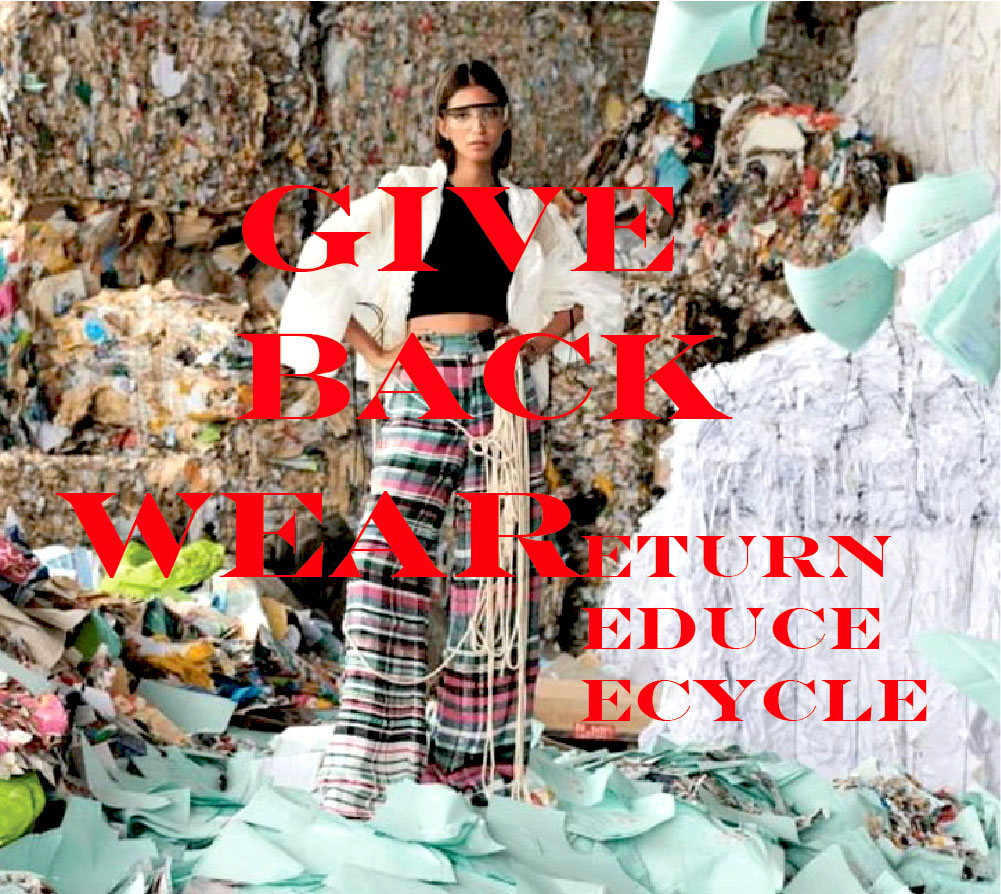
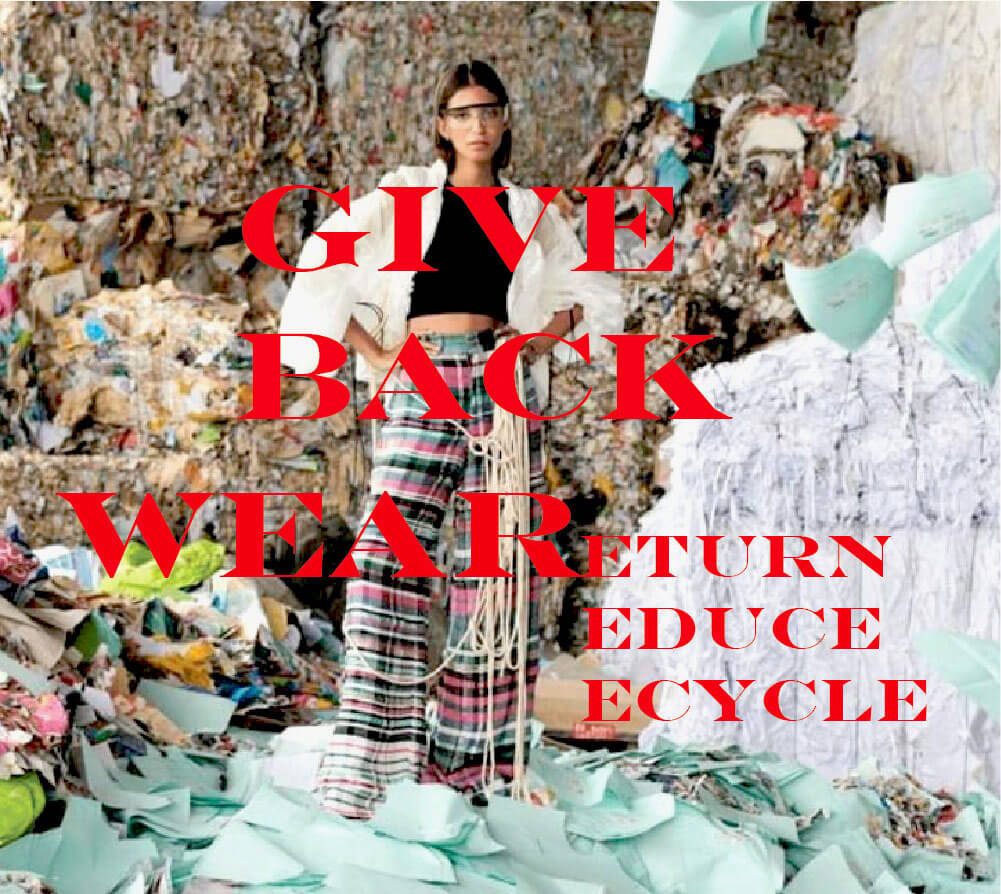
updated margin

diff --git a/index.html b/index.html
@@ -32,7 +32,7 @@
 
  <!-----sticky nav start --------->
 
-  <div data-sticky-container>
+  <!-- <div data-sticky-container>
     <div id="sticky-container" class="top-bar" data-sticky data-options="marginTop:0;" style="width:100% ; height:80px">
       <div class="top-bar-left">
         <a id="top-bar-sticky-logo" class="top-bar-sticky-logo" href="#"><strong>Project-Give-Back</strong></a>
@@ -41,14 +41,43 @@
         <div class="top-bar-right">
           <ul class="menu">
             <li><a href="#">Give Back</a></li>
-            <li><a href="#waste effect">Waste Effect</a></li>
+            <li><a href="#waste-effect">Waste Effect</a></li>
             <li><a href="#search country">Search</a></li>
+            <li><a href="#about us">About Us</a></li>
+          </ul>
+        </div>
+      </div>
+    </div>
+  </div> -->
+
+  <div data-sticky-container>
+    <div id="sticky-container" class="top-bar" data-sticky data-options="marginTop:0;" style="width:100% ; height:80px">
+
+      <div class="top-bar-left">
+        <a id="top-bar-sticky-logo" class="top-bar-sticky-logo" href="#"><strong>Project-Give-Back</strong></a>
+      </div>
+
+      <div class="title-bar" data-responsive-toggle="example-menu" data-hide-for="medium">
+        <button class="menu-icon" type="button" data-toggle="example-menu"></button>
+        <div class="title-bar-title">Menu</div>
+      </div>
+
+      <div class="top-bar top-bar-right" id="example-menu">
+        <div class="top-bar-right">
+          <ul class="vertical medium-horizontal dropdown menu" data-responsive-menu="accordion medium-dropdown">
+            <li class="menu-text">
+              <MENU></MENU>
+            </li>
+
+            <li><a href="#">Give Back</a></li>
+            <li><a href="#waste-effect">Waste Effect</a></li>
+            <li><a href="#search country">Search</a></li>
+            <li><a href="#about us">About Us</a></li>
           </ul>
         </div>
       </div>
     </div>
   </div>
-
  
 <!-----swiper 1 start --------->
 
@@ -62,7 +91,7 @@
     <div class="swiper-slide" style="background-image:url(./Assets/image/giveback6.jpg)"></div>
     <div class="swiper-slide" style="background-image:url(./Assets/image/giveback7.jpg)"></div>
     <div class="swiper-slide" style="background-image:url(./Assets/image/giveback8.jpg)"></div>
-    <div class="swiper-slide" style="background-image:url(./Assets/image/hmtext1.png)"></div>
+    <div class="swiper-slide" style="background-image:url(./Assets/image/giveback9.jpg)"></div>
     <div class="swiper-slide" style="background-image:url(./Assets/image/hmtext1.png)"></div>
   </div>
   <!-- Add Pagination -->
@@ -81,18 +110,18 @@
       <div class="callout callout-hover-reveal" data-callout-hover-reveal>
         <div class="callout-body">
           <h2>FASHION IS THE SECOND MOST POLLUTING INDUSTRY IN THE WORLD</h2>
-          <p>For a Planet Beyond Next Season.</p>
+          <h3>For a Planet Beyond Next Season.</h3>
         </div>
       </div>
     </div>
   </div>
  
 <!-----middle break text end  --------->
- <!-- <div style="margin-bottom: 200px;" ></div>  -->
+ 
 <!-----images waste effect start --------->
 
-
-<div id="waste effect"  class="featured-image-block-grid top-margin2">
+<div class="anchor" id="waste-effect"></div>
+<div class="featured-image-block-grid ">
   <div class="featured-image-block-grid-header small-10 medium-8 large-7 columns text-center">
     <h2>WASTE EFFECT</h2>
     <p>JUST AS QUICKLY AS GARMENTS ARE MADE, THEY ARE WASTED</p>
@@ -191,40 +220,29 @@
 
 
  <!-----search  start --------->
-<div class="grid-x grid-margin-x callout " >
-  <div class="cell small-4 small-offset-2"> 
-    <button id="search country"  class="secondary expanded dropdown button "
-      type="button" data-toggle="Country-dropdown-bottom-center">Country</button>
-    <div class="dropdown-pane" data-position="bottom" data-alignment="center" id="Country-dropdown-bottom-center"
-      data-dropdown data-auto-focus="true"></div>
+
+ <div class="callout" >   
+  <div style="display:flex;justify-content: center;">
+    <div class="search" style="width:30%"> 
+      <button id="search country"  class="secondary expanded dropdown button "
+        type="button" data-toggle="Country-dropdown-bottom-center">Country</button>
+      <div class="dropdown-pane" data-position="bottom" data-alignment="center" id="Country-dropdown-bottom-center"
+        data-dropdown data-auto-focus="true"></div>
+    </div>
+    <button style="margin-left:5px"id="search-button" class="secondary search button"><i class="fa fa-search"></i></button>
   </div>
-  <!-- <div class="cell small-4 medium-4 large-4">
-    <button id="search city" class="secondary expanded dropdown button" type="button"
-      data-toggle="City-dropdown-bottom-center">City</button>
-    <div class="dropdown-pane" data-position="bottom" data-alignment="center" id="City-dropdown-bottom-center"
-      data-dropdown data-auto-focus="true"></div>
-  </div> -->
-  <div class="cell small-2 medium-2 large-2">
-    <button id="search button" class="secondary search button"><i class="fa fa-search"></i></button>
-  </div>
-</div>
- 
+</div> 
     <!-----search  end --------->
-
-
+   
    <!-----box map & location start --------->
 
 
   <div class="grid-x">
     <div id="map" style="text-align:center" class="cell small-6">
        <p class="maptitles"> Map</p>
-       <!-- <img src="https://placehold.it/200x200" class="thumbnail"
-        alt=""> -->
     </div>
     <div id=" location" style="text-align:center" class="cell small-6">
        <p class="maptitles"> Location</p>
-       <!-- <img src="https://placehold.it/200x200" class="thumbnail"
-        alt=""> -->
     </div>
   </div>
 
@@ -240,7 +258,7 @@
         <div class="callout callout-hover-reveal" data-callout-hover-reveal>
           <div class="callout-body">
             <h2>WEAR | RETURN | REDUCE | RECYCLE</h2>
-            <!-- <p> Made-Team-Chuck</p> -->
+             <h4> About us</h4>
           </div>
         </div>
       </div>

diff --git a/Assets/style.css b/Assets/style.css
@@ -2,22 +2,6 @@
 @import url('https://fonts.googleapis.com/css2?family=Lato:ital,wght@0,700;1,400&display=swap');
 
 
-/* body {
-margin: 0;
-padding: 0;
-box-sizing: border-box;
-overflow-x: hidden;
-font-family:'Lato', sans-serif;
-}
-
-
- .offset:before{
-	 display: block;
-	 content: "";
-	 height: 6rem;
-
- } */
-
 
 .top-margin {
   margin-top: 5%;
@@ -25,62 +9,93 @@ font-family:'Lato', sans-serif;
 
 .top-margin2 {
   margin-top: 10%;
-  /* margin-bottom: 5%;  */
+ 
 }
 
 
 /*------sticky nav--------*/
 
+
 #sticky-container {
-    background:#646769;
-    padding: 1rem 1.5rem;
-   }
+  background:#646769;
+  padding: 1rem 1.5rem;
+ }
+
+.topbar-sticky-shrink {
+  padding: 2rem;
+  transition: padding 0.25s ease;
+  background: #646769;
+}
+
+
+#top-bar-sticky-logo {
+  background:#646769;
+  color:#fefefe;
+  font: weight 50;
+  font-size: 36px;
+  font-family: Cambria, Cochin, Georgia, Times, 'Times New Roman', serif;
+}
+
+.topbar-sticky-shrink .menu {
+  background: #646769;
+  width: 100%;
+
+} 
+
+.is-stuck .topbar-sticky-shrink {
+  padding: 1rem;
+  transition: padding 0.25s ease;
+}
+
+.top-bar {
+  background-color:transparent;
+}
+.top-bar ul  {
+   background:#646769;
+}  
+
+.top-bar-right .menu a {
+  background-color: #646769;
+  color: #fefefe;
+  transition: color 0.15s ease-in;
+  font-size: 20px;
+  font-family: Cambria, Cochin, Georgia, Times, 'Times New Roman', serif;
+}
+
+
+.top-bar-right .menu a:hover {
+  color: #eb1008;
+}
+/*---------new stick bar entry --------*/
+
+.title-bar {
+  background: #646769;
   
-  .topbar-sticky-shrink {
-    padding: 2rem;
-    transition: padding 0.25s ease;
-    background: #646769;
+}
+
+@media screen and (max-width: 39.9375em) {
+  .no-js .top-bar {
+    display: none;
   }
-  
-  
   #top-bar-sticky-logo {
-    color: #fefefe;
-    font: weight 50;
-    font-size: 36px;
-    font-family: Cambria, Cochin, Georgia, Times, 'Times New Roman', serif;
+    font-size: 16px;
   }
-  
-  .topbar-sticky-shrink .menu {
-    background: #646769;
-    width: 100%;
-  } 
-  
-  
-  .is-stuck .topbar-sticky-shrink {
-    padding: 1rem;
-    transition: padding 0.25s ease;
+}
+
+@media print, screen and (min-width: 40em) {
+  .no-js .title-bar {
+    display: none;
   }
-  
-  .top-bar ul  {
-     background:#646769;
-  }  
-  
-  .top-bar-right .menu a {
-    color: #fefefe;
-    transition: color 0.15s ease-in;
-    font-size: 20px;
-    font-family: Cambria, Cochin, Georgia, Times, 'Times New Roman', serif;
-  }
-  
-  
-  .top-bar-right .menu a:hover {
-    color: #eb1008;
-  }
-  
-  
-  [data-sticky] {
-    width: 100%;
-  } 
+}
+
+[data-sticky] {
+  width: 100%;
+}
+
+.sticky-container {
+  z-index: 5;
+} 
+
   
   
 
@@ -100,8 +115,8 @@ font-family:'Lato', sans-serif;
   
     .swiper-container {
       width: 100%;
-      padding-top: 70px;
-      padding-bottom: 70px;
+      padding-top: 50px;
+      padding-bottom: 50px;
       margin-top: 60px; 
       margin-bottom: 60px;
     }
@@ -130,10 +145,6 @@ font-family:'Lato', sans-serif;
 
 /*------- image waste effect-------------*/
 
-/* #waste  {
-  margin-top:15px;
-  
-}   */
   
 .featured-image-block-grid-header {
   margin-left: auto;
@@ -157,6 +168,10 @@ font-family:'Lato', sans-serif;
   color: #1779ba;
 }
 
+.anchor {
+  height: 80px;
+  visibility: hidden;
+}
 /*------- image waste effect end -------------*/
 
 
@@ -167,7 +182,7 @@ font-family:'Lato', sans-serif;
   font-weight: bold;
 }
   
-  /*------ need map box and loc box-------*/
+/*------ need map box and loc box-------*/
   
   
 .maptitles {
